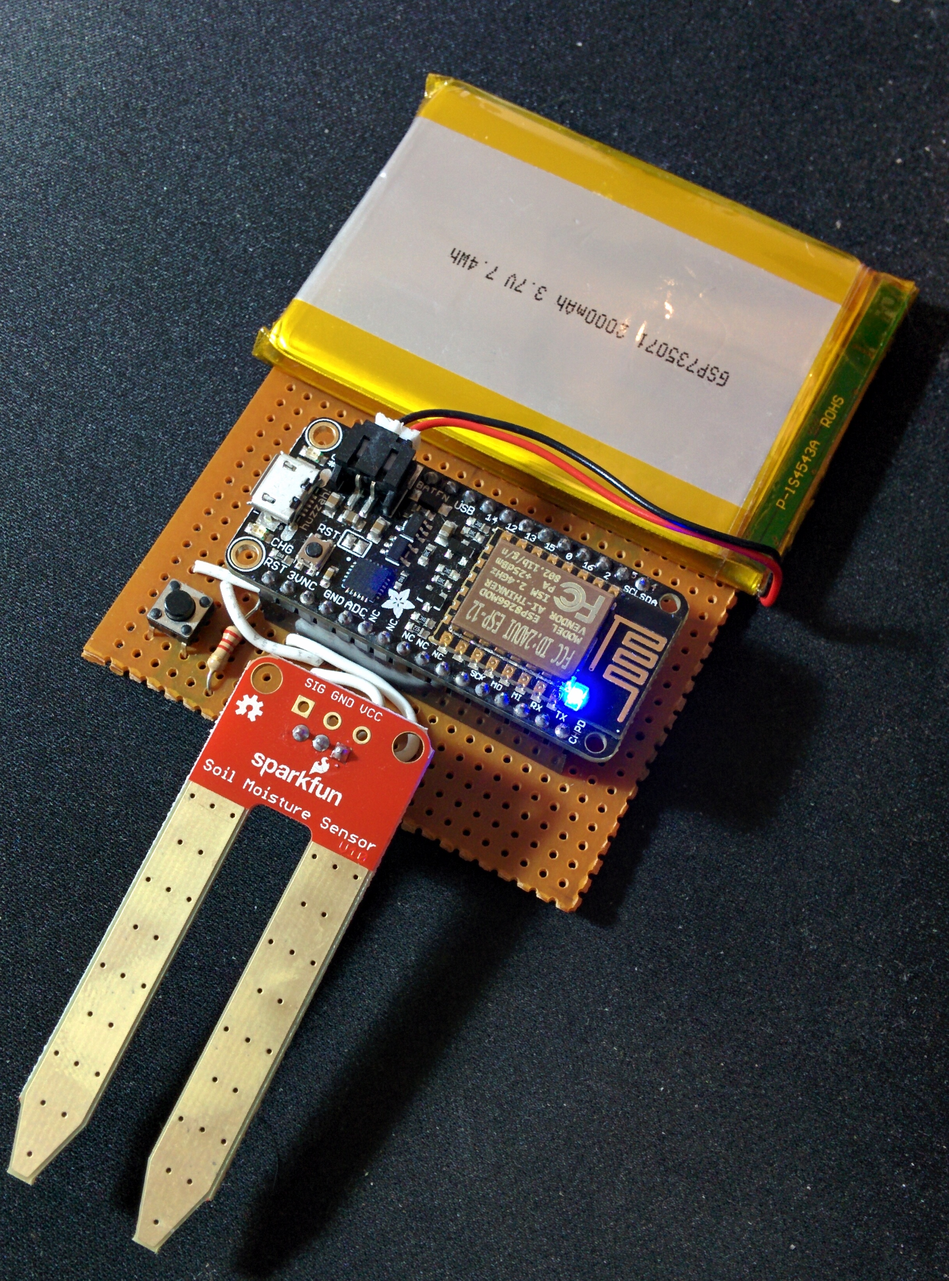
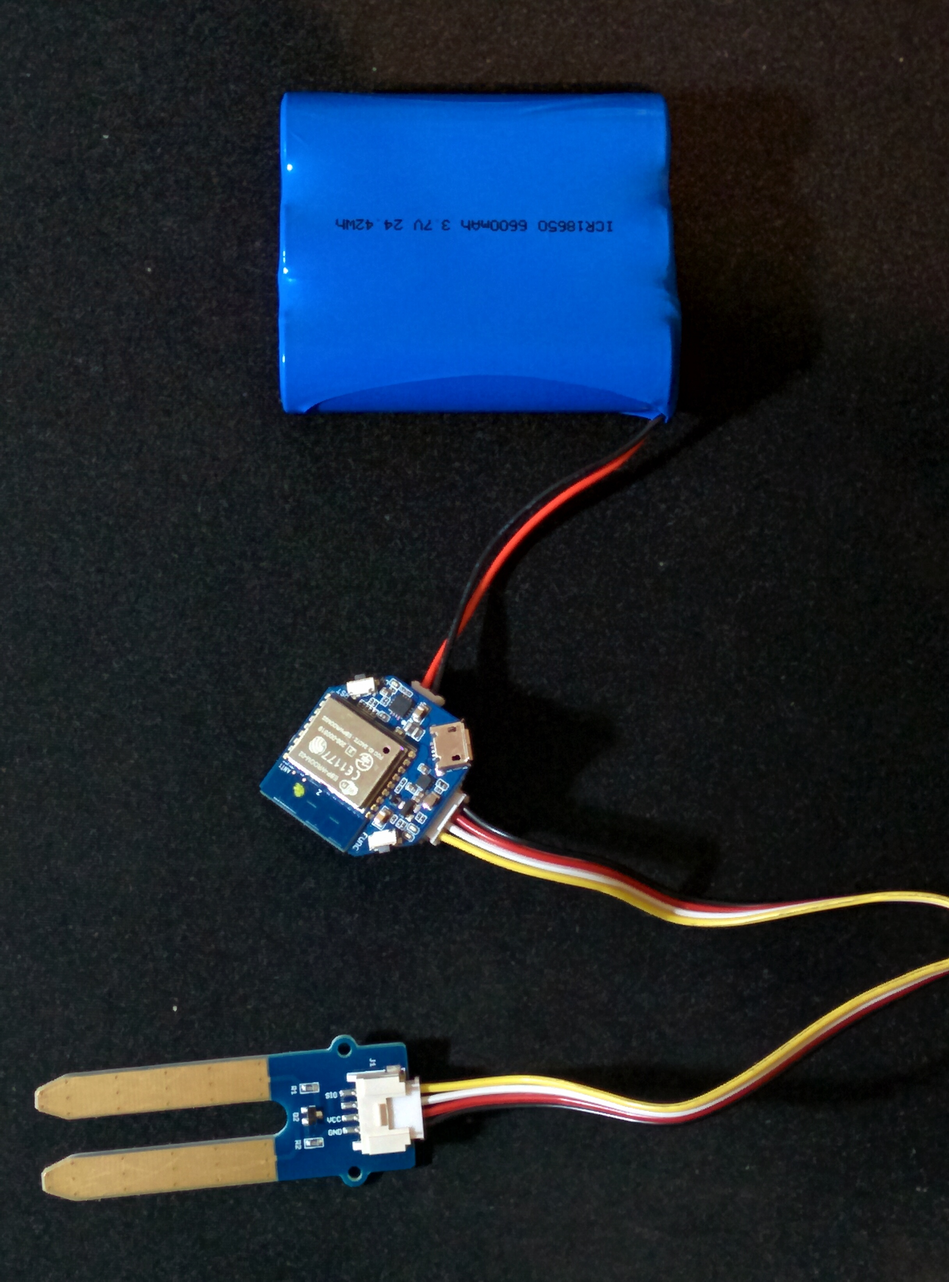
Fix documentation for new hardware

diff --git a/README.md b/README.md
@@ -1,36 +1,74 @@
 Thirst
 ======
 
-Thirst is one of my personal projects for fun. In this project a device is developed
-which can monitor soil moisture and report via email in case the moisture is above or
-below a pre-configured threshold. Main purpose of this device is to monitor plants and
-when they might need water. Particularly useful for people who forget to water their
-plants.
+Thirst is one of my personal projects for fun. Thirst is a system that can monitor
+soil moisture and send notifications via email in case the moisture is above or
+below a pre-configured threshold. The main purpose of this system is to monitor
+plants and when they might need water. Particularly useful for people who forget
+to water their plants. This system will check the soil moisture once every day
+and notify the user is needed.
 
 Hardware
 --------
-The hardware is based on Adafruit Feather HUZZAH ESP8266, SparkFun soil moisture
-sensor and a 2000mAh LiPo battery. The soil moisture sensor is read through a voltage
-divider network which scales 3.3v to 1v. The output is connected to the ADC pin of the
-ESP8266 module. There are two click buttons available on the system. One on the main
-ESP8266 module and the other on the board. The button on the module is used to reset the
-module and the one on the board is used to switch the system into configuration mode.
+
+The hardware is based on `Seeed Studio Wio Node
+<https://www.seeedstudio.com/Wio-Node-p-2637.html>_`, `Grove Moisture Sensor
+<https://www.seeedstudio.com/Grove---Moisture-Sensor-p-955.html>_` and a LiPo
+battery with JST connector.
 
 <p align="center">
     <img align="center" src="https://github.com/iia/Thirst/blob/master/img/hardware.jpg" width="350" height="450" />
 </p>
 
-LED Status
-----------
+LEDs and Buttons
+----------------
 
-There are two LEDs, one blue and one red on the system. If any error situation occurs during the operation then the red LED wil turn on. The blue LED is turned on when the device is in configuration mode. In normal operation mode the blue LED blinks every minute which indicates that the device is operating properly.
+There are three LEDs, red, green and blue on the system and two buttons, reset
+and function.
+
+The red LED turns on when reset button is pressed to indicate reset held state.
+The green LED indicate charging states. The blue LED indicate operating modes.
+
+Button Functions
+----------------
+
+The following table describes the functionalities of the buttons.
+
+=====  =============  ==================
+Reset  Function       State
+=====  =============  ==================
+Click  -              Reset
+Click  Pressed        Flashing Mode
+Click  Delayed Press  Configuration Mode
+=====  =============  ==================
+
+To enter configuration mode reset the device by clicking the reset button and
+just after resetting press and hold the function button until the blue LED turns
+on.
+
+LED Indicators
+--------------
+
+Red:
+    * Turned on, reset button is pressed and in reset held state.
+
+Green:
+    * Blinking, there is no battery present but the system is powered by the
+      USB port.
+    * Turned on, battery is being charged through the power provided
+      by the USB port. In this state the system uses power from the USB port.
+    * Turned off, battery is fully charged or operating from battery power
+      and no USB power present.
+
+Blue:
+    * Blinking, in error state.
+    * Turned on, in configuration mode.
 
 Compiling and Flashing the Firmware
 -----------------------------------
 Before compiling the firmware the build environment must be prepared,
 
-    cd firmware/
-    make prepare
+    make -C firmware/ prepare
 
 Then patches must be applied,
 
@@ -40,23 +78,20 @@ Then patches must be applied,
 
 Then to compile the firmware,
 
-    make clean
-    make all
+    make -C firmware/ clean
+    make -C firmware/ all
 
 The compiled firmware can be flashed using,
 
-    make ESPPORT=/dev/<SERIAL_USB_PORT> flash
+    make -C firmware/ ESPPORT=/dev/<SERIAL_USB_PORT> flash
 
 Note that for this the Python package **esptool** must be installed on the system.
 
 Configuring the System
 ----------------------
 
-To switch the device into configuration mode,
-
-* Whe nthe system is powered on press both of the click buttons
-* Release the reset button which is on the module
-* Wait a second after releasing the reset button and then release the button on the board
+To switch the device into configuration mode follow the instructions described
+in the Button Functions section.
 
 <p align="center">
     <img align="center" src="https://github.com/iia/Thirst/blob/master/img/configuration_interface.png" width="" height="" />
